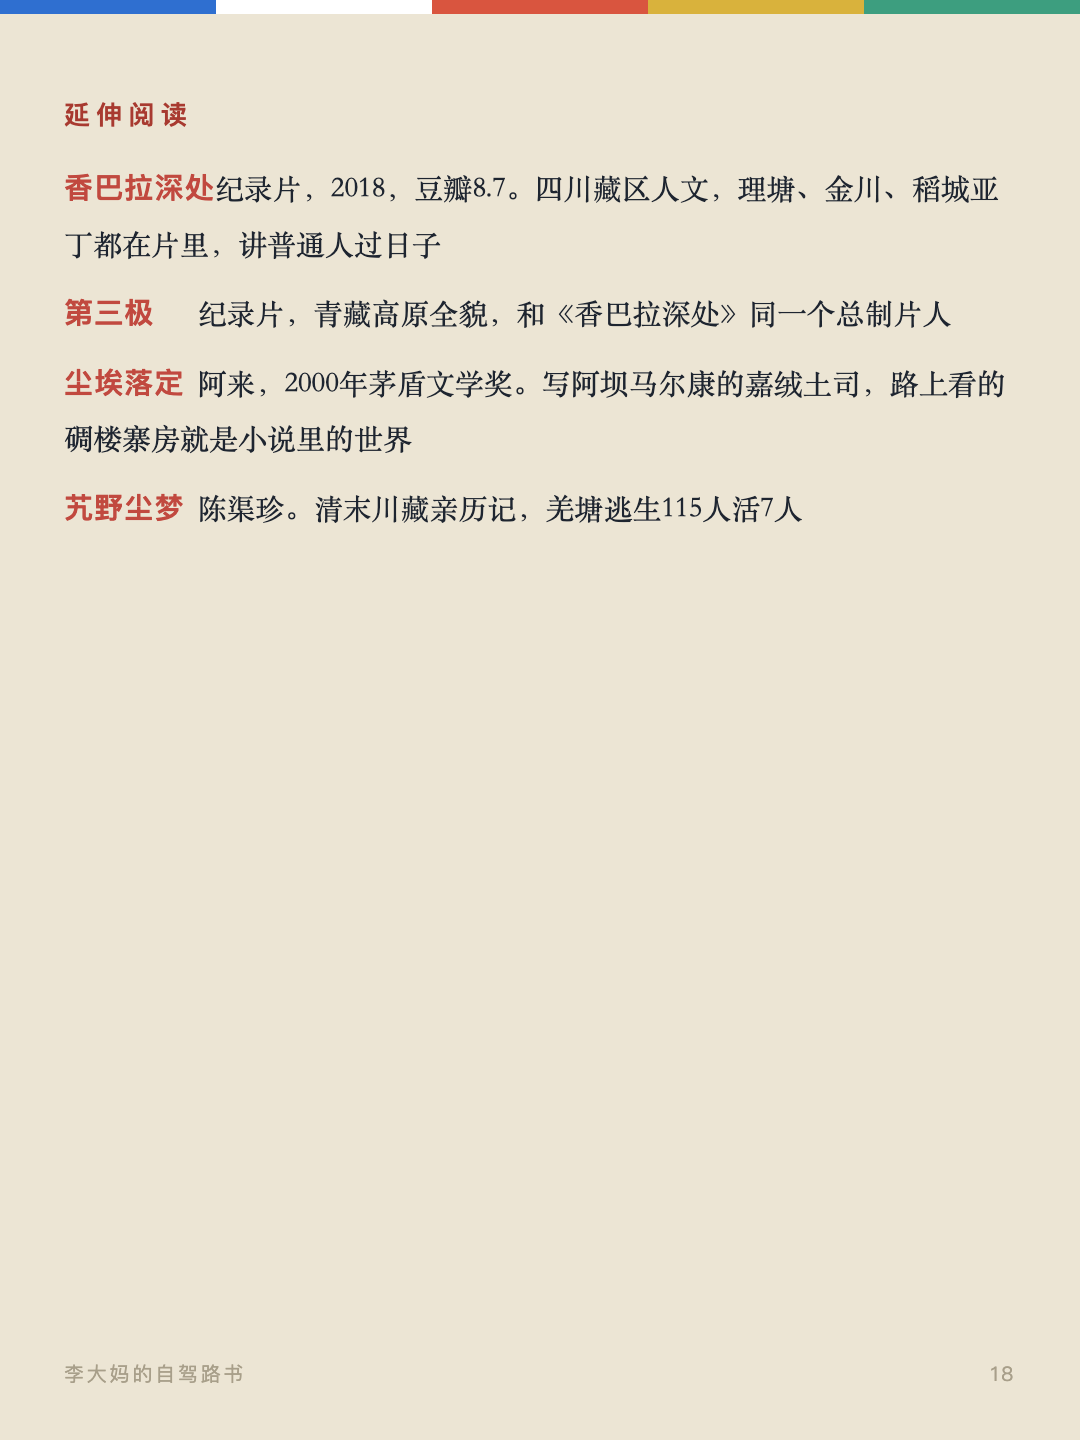
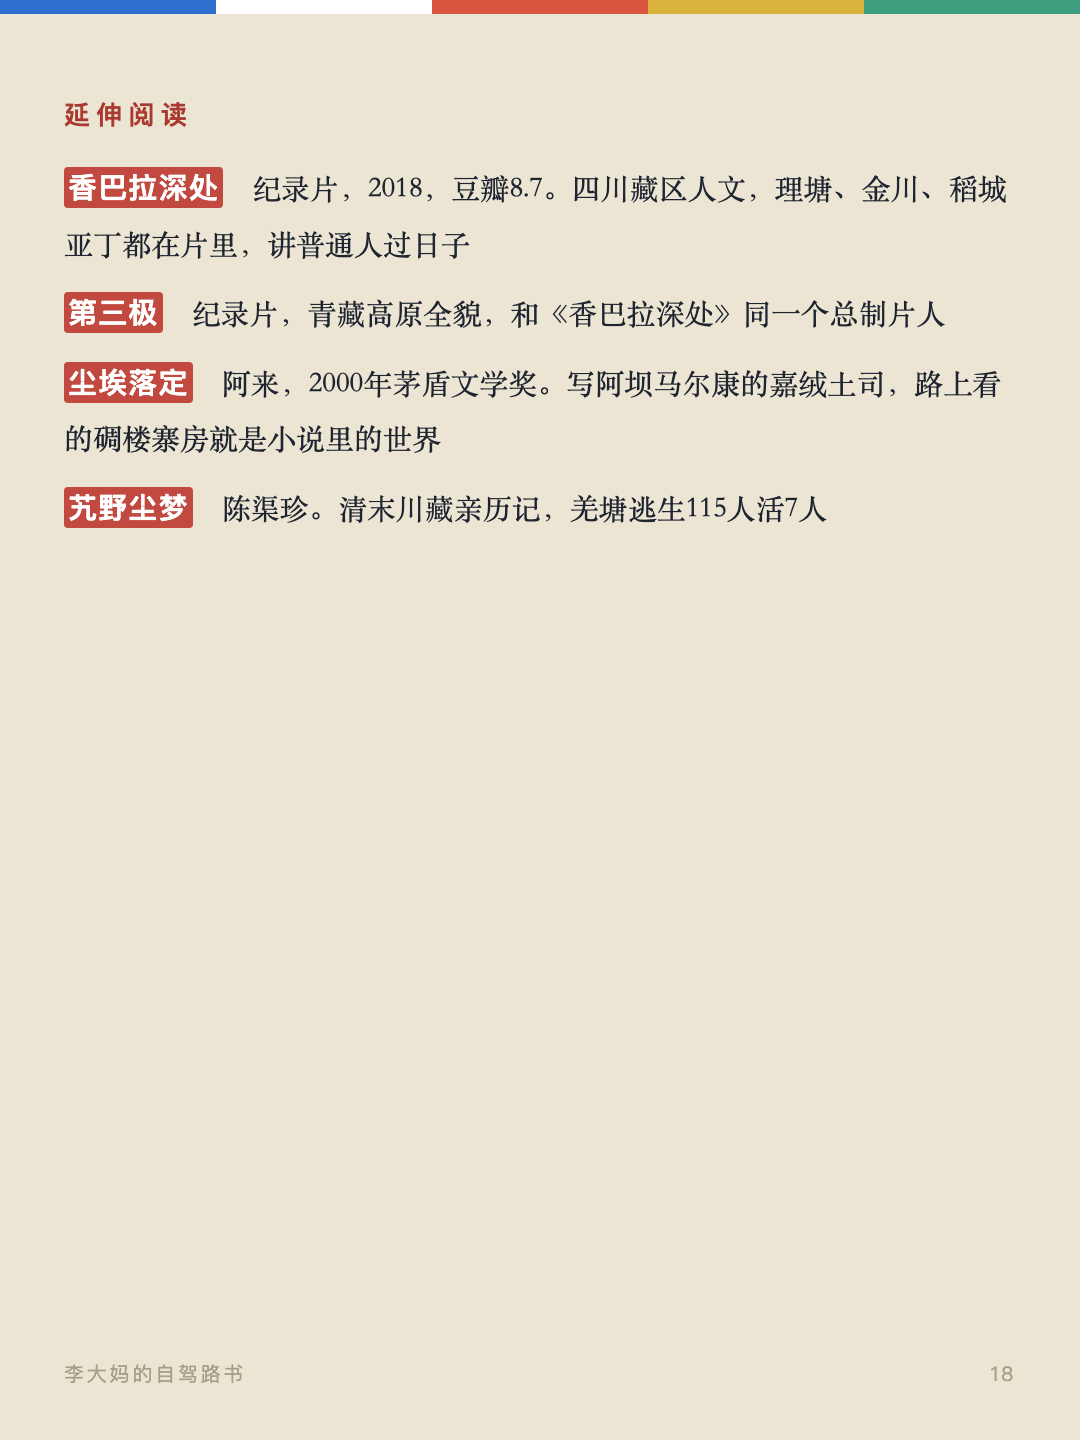
藏语词与书名改反色高亮，背景只跟词本身，词后留空不紧贴正文

Changed region(s): [[0.0611, 0.0938, 0.9472, 0.375]]

diff --git a/index.html b/index.html
@@ -149,7 +149,7 @@
   .appendix li{padding:.18em 0;padding-left:1.2em;position:relative;}
   .appendix li:before{content:"·";position:absolute;left:0;color:var(--vermilion);}
   .appendix .c-words li:before{content:"";}
-  .appendix .c-words b{display:inline-block;min-width:5.2em;background:var(--vermilion);color:#fff;font-weight:700;padding:0 .2em;border-radius:2px;font-family:var(--sans);}
+  .appendix .c-words b{background:var(--vermilion);color:#fff;font-weight:700;padding:0 .2em;border-radius:2px;box-decoration-break:clone;-webkit-box-decoration-break:clone;font-family:var(--sans);margin-right:1em;white-space:nowrap;}
 
   .close{
     margin:0;padding:1.4em 1.6em;

diff --git a/cards.html b/cards.html
@@ -102,8 +102,11 @@
   .card ul.card__cwords{list-style:none;margin:6px 0 0;font-size:29px;line-height:1.92;}
   .card__cwords li{padding:.24em 0;}
   .card__cwords b{
-    display:inline-block;min-width:4.6em;color:var(--vermilion);font-weight:600;
+    background:var(--vermilion);color:#fff;font-weight:700;
+    padding:0 .14em;border-radius:4px;
+    box-decoration-break:clone;-webkit-box-decoration-break:clone;
     font-family:var(--sans);letter-spacing:.04em;
+    margin-right:1em;white-space:nowrap;
   }
 
   .card p,.card li{text-wrap:pretty;}

diff --git a/gen_cards.py b/gen_cards.py
@@ -196,8 +196,11 @@ CSS = """
   .card ul.card__cwords{list-style:none;margin:6px 0 0;font-size:29px;line-height:1.92;}
   .card__cwords li{padding:.24em 0;}
   .card__cwords b{
-    display:inline-block;min-width:4.6em;color:var(--vermilion);font-weight:600;
+    background:var(--vermilion);color:#fff;font-weight:700;
+    padding:0 .14em;border-radius:4px;
+    box-decoration-break:clone;-webkit-box-decoration-break:clone;
     font-family:var(--sans);letter-spacing:.04em;
+    margin-right:1em;white-space:nowrap;
   }
 
   .card p,.card li{text-wrap:pretty;}
